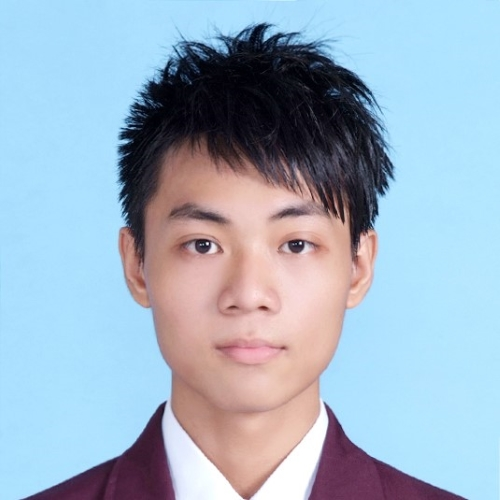
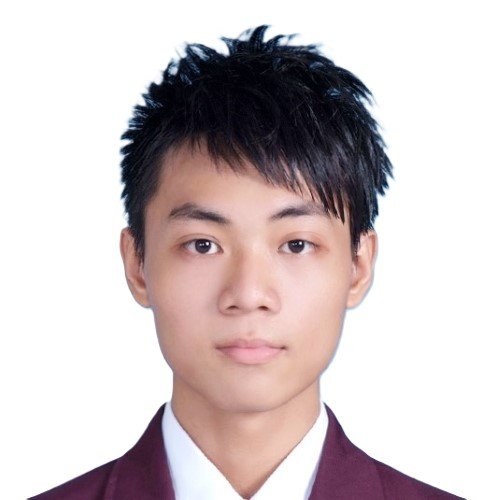
圖片名稱、WSS設置

diff --git a/src/views/AboutView.vue b/src/views/AboutView.vue
@@ -96,7 +96,7 @@ onMounted(() => {
                 <div class="col-md-6 col-lg-6 col-xl-2 wow fadeInUp" data-wow-delay="0.4s">
                     <div class="team-item">
                         <div class="team-img">
-                            <img src="@/assets/img/ForComponent/members/柏霖.png" class="img-fluid" alt="" />
+                            <img src="@/assets/img/ForComponent/members/柏霖.jpg" class="img-fluid" alt="" />
                         </div>
                         <div class="team-title">
                             <h4 class="mb-0">蘇柏霖</h4>
@@ -112,7 +112,7 @@ onMounted(() => {
                 <div class="col-md-6 col-lg-6 col-xl-2 wow fadeInUp" data-wow-delay="0.6s">
                     <div class="team-item">
                         <div class="team-img">
-                            <img src="@/assets/img/ForComponent/members/維謙.png" class="img-fluid" alt="" />
+                            <img src="@/assets/img/ForComponent/members/維謙.jpg" class="img-fluid" alt="" />
                         </div>
                         <div class="team-title">
                             <h4 class="mb-0">洪維謙</h4>
@@ -144,7 +144,7 @@ onMounted(() => {
                 <div class="col-md-6 col-lg-6 col-xl-2 wow fadeInUp" data-wow-delay="1s">
                     <div class="team-item">
                         <div class="team-img">
-                            <img src="@/assets/img/ForComponent/members/敬勛.png" class="img-fluid" alt="" />
+                            <img src="@/assets/img/ForComponent/members/敬勛.jpg" class="img-fluid" alt="" />
                         </div>
                         <div class="team-title">
                             <h4 class="mb-0">林敬勛</h4>

diff --git a/vite.config.js b/vite.config.js
@@ -24,7 +24,7 @@ export default defineConfig({
             key: fs.readFileSync(path.resolve(__dirname, 'certs', 'key.pem')), // 私鑰檔案路徑
             cert: fs.readFileSync(path.resolve(__dirname, 'certs', 'cert.pem')), // 憑證檔案路徑
         },
-        hmr: { host },
+        hmr: { host, protocol: 'wss' },
         host: host,
         port: 5173,
     },
